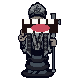
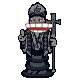
Polish gameplay for a 9-year-old: UX, difficulty, and stats
- Board flips when player chooses Black so own pieces are always at the bottom
- Capture targets show a ring around enemy pieces (was invisible green dot under piece)
- Rank/file labels enlarged for easier reading
- Stats panel moved to top-right, split into two compact lines per side so long
  capture lists don't overflow at any window size
- Chomp animation extended (38→55 frames) so the teeth sprite is visible after
  the slide animation lands (~0.7 s shown)
- Easy difficulty reduced to depth=1 (matches Lichess Level 1 — actually beatable)
- Medium difficulty reduced to depth=4 (was 10; gradual step up from Easy)
- Chomp sprites updated with real cartoon teeth overlaid from teeth.jpg
- README updated with personal note about who the game is for

Changed region(s): [[0.275, 0.225, 0.725, 0.425]]

diff --git a/game/board.py b/game/board.py
@@ -8,23 +8,31 @@ FILES = "abcdefgh"
 
 
 def draw(surface: pygame.Surface, state: GameState, theme: Theme,
-         ox: int, oy: int, fonts: dict, sq: int = 80):
-    _squares(surface, state, theme, ox, oy, sq)
-    _labels(surface, theme, ox, oy, fonts["sm"], sq)
-    _pieces(surface, state, theme, ox, oy, sq)
-    _anim_piece(surface, state, theme, ox, oy, sq)
+         ox: int, oy: int, fonts: dict, sq: int = 80, flip: bool = False):
+    _squares(surface, state, theme, ox, oy, sq, flip)
+    _labels(surface, theme, ox, oy, fonts["md"], sq, flip)
+    _pieces(surface, state, theme, ox, oy, sq, flip)
+    _anim_piece(surface, state, theme, ox, oy, sq, flip)
     _chomp_text(surface, state, theme, ox, oy, fonts["chomp"], sq)
     _status_bar(surface, state, theme, ox, oy, fonts, sq)
     _controls_bar(surface, state, theme, ox, oy, fonts["sm"], sq)
+    _stats_bar(surface, state, theme, fonts)
     if state.game_over:
         _game_over_banner(surface, state, theme, ox, oy, fonts, sq)
 
 
-def _squares(surface, state, theme, ox, oy, sq):
+def _sq_topleft(file, rank, ox, oy, sq, flip):
+    """Pixel top-left of the square at (file, rank)."""
+    if flip:
+        return ox + (7 - file) * sq, oy + rank * sq
+    return ox + file * sq, oy + (7 - rank) * sq
+
+
+def _squares(surface, state, theme, ox, oy, sq, flip=False):
     for rank in range(8):
         for file in range(8):
             square = chess.square(file, rank)
-            x, y = ox + file * sq, oy + (7 - rank) * sq
+            x, y = _sq_topleft(file, rank, ox, oy, sq, flip)
 
             is_light = (file + rank) % 2 == 1
             color = theme.light_sq if is_light else theme.dark_sq
@@ -37,24 +45,33 @@ def _squares(surface, state, theme, ox, oy, sq):
             pygame.draw.rect(surface, color, (x, y, sq, sq))
 
             if square in state.legal_targets:
-                dot_r = max(3, sq // 9)
-                pygame.draw.circle(surface, theme.move_dot,
-                                   (x + sq // 2, y + sq // 2), dot_r)
+                cx, cy = x + sq // 2, y + sq // 2
+                enemy = state.board.piece_at(square)
+                if enemy is not None:
+                    # Ring around capturable enemy piece
+                    ring_r = max(6, sq * 2 // 5)
+                    ring_w = max(2, sq // 16)
+                    pygame.draw.circle(surface, theme.check_sq, (cx, cy), ring_r, ring_w)
+                else:
+                    dot_r = max(3, sq // 9)
+                    pygame.draw.circle(surface, theme.move_dot, (cx, cy), dot_r)
 
     pygame.draw.rect(surface, theme.dark_sq, (ox, oy, sq * 8, sq * 8), 3)
 
 
-def _labels(surface, theme, ox, oy, font, sq):
+def _labels(surface, theme, ox, oy, font, sq, flip=False):
     for i in range(8):
-        rank_lbl = font.render(str(8 - i), True, theme.label_color)
+        rank_num = i + 1 if flip else 8 - i
+        rank_lbl = font.render(str(rank_num), True, theme.label_color)
         surface.blit(rank_lbl, (ox + sq * 8 + 5,
                                 oy + i * sq + sq // 2 - rank_lbl.get_height() // 2))
-        file_lbl = font.render(FILES[i], True, theme.label_color)
+        file_idx = 7 - i if flip else i
+        file_lbl = font.render(FILES[file_idx], True, theme.label_color)
         surface.blit(file_lbl, (ox + i * sq + sq // 2 - file_lbl.get_width() // 2,
                                 oy + sq * 8 + 4))
 
 
-def _pieces(surface, state, theme, ox, oy, sq):
+def _pieces(surface, state, theme, ox, oy, sq, flip=False):
     for square in chess.SQUARES:
         if state.animating() and square == state.anim_to_sq:
             continue
@@ -62,26 +79,27 @@ def _pieces(surface, state, theme, ox, oy, sq):
         if piece is None:
             continue
         file, rank = chess.square_file(square), chess.square_rank(square)
-        cx = ox + file * sq + sq // 2
-        cy = oy + (7 - rank) * sq + sq // 2
+        x, y = _sq_topleft(file, rank, ox, oy, sq, flip)
+        cx, cy = x + sq // 2, y + sq // 2
         fill    = theme.white_piece   if piece.color == chess.WHITE else theme.black_piece
         outline = theme.white_outline if piece.color == chess.WHITE else theme.black_outline
         timer = state.chomp_timer if square == state.chomping_square else 0
         p.draw_piece(surface, piece, cx, cy, sq, fill, outline, timer)
 
 
-def _sq_center(square, ox, oy, sq):
-    return (ox + chess.square_file(square) * sq + sq // 2,
-            oy + (7 - chess.square_rank(square)) * sq + sq // 2)
+def _sq_center(square, ox, oy, sq, flip=False):
+    file, rank = chess.square_file(square), chess.square_rank(square)
+    x, y = _sq_topleft(file, rank, ox, oy, sq, flip)
+    return x + sq // 2, y + sq // 2
 
 
-def _anim_piece(surface, state, theme, ox, oy, sq):
+def _anim_piece(surface, state, theme, ox, oy, sq, flip=False):
     if not state.animating() or state.anim_piece is None:
         return
     raw = 1.0 - state.anim_timer / ANIM_DURATION
     t = raw * raw * (3 - 2 * raw)
-    fx, fy = _sq_center(state.anim_from_sq, ox, oy, sq)
-    tx, ty = _sq_center(state.anim_to_sq,   ox, oy, sq)
+    fx, fy = _sq_center(state.anim_from_sq, ox, oy, sq, flip)
+    tx, ty = _sq_center(state.anim_to_sq,   ox, oy, sq, flip)
     cx = int(fx + t * (tx - fx))
     cy = int(fy + t * (ty - fy))
     piece   = state.anim_piece
@@ -112,8 +130,48 @@ def _status_bar(surface, state, theme, ox, oy, fonts, sq):
 
 def _controls_bar(surface, state, theme, ox, oy, font, sq):
     txt = font.render("R — restart    ESC — menu", True, theme.label_color)
-    # sit below file labels (which are at sq*8+4, one line tall)
     surface.blit(txt, (ox, oy + sq * 8 + font.get_height() + 8))
+
+
+def _stats_bar(surface, state, theme, fonts):
+    """Render game stats top-right — always visible regardless of window size."""
+    font = fonts["sm"]
+    H = font.get_height()
+    W, _ = surface.get_size()
+    # sit just below the mode label which main.py draws at y=10
+    base_y = 10 + H + 8
+
+    white_left = sum(1 for s in chess.SQUARES
+                     if (pc := state.board.piece_at(s)) and pc.color == chess.WHITE)
+    black_left = sum(1 for s in chess.SQUARES
+                     if (pc := state.board.piece_at(s)) and pc.color == chess.BLACK)
+
+    def fmt_caps(caps):
+        if not caps:
+            return "—"
+        cnt: dict[int, int] = {}
+        for pc in caps:
+            cnt[pc.piece_type] = cnt.get(pc.piece_type, 0) + 1
+        syms = {chess.QUEEN: 'Q', chess.ROOK: 'R', chess.BISHOP: 'B',
+                chess.KNIGHT: 'N', chess.PAWN: 'P'}
+        order = [chess.QUEEN, chess.ROOK, chess.BISHOP, chess.KNIGHT, chess.PAWN]
+        parts = [f"{cnt[pt]}{syms[pt]}" if cnt[pt] > 1 else syms[pt]
+                 for pt in order if pt in cnt]
+        return ' '.join(parts)
+
+    rows = [
+        ("White", white_left, state.white_captures, state.white_checks),
+        ("Black", black_left, state.black_captures, state.black_checks),
+    ]
+    y = base_y
+    for side, left, caps, checks in rows:
+        line1 = f"{side}: {left} pcs  checks: {checks}"
+        line2 = f"  took: {fmt_caps(caps)}"
+        for line in (line1, line2):
+            txt = font.render(line, True, theme.text_color)
+            surface.blit(txt, (W - txt.get_width() - 10, y))
+            y += H + 2
+        y += 3
 
 
 def _game_over_banner(surface, state, theme, ox, oy, fonts, sq):

diff --git a/game/sprites.py b/game/sprites.py
@@ -1,10 +1,10 @@
 """
-Pixel-art chess piece sprites at 32×32.
+Pixel-art chess piece sprites drawn in 32×32 logical space, stored as 128×128 PNGs.
 
 Normal state: proper chess piece silhouettes, no face.
 Chomp state:  same silhouette but with a gaping toothed mouth (the "chessteeth" moment).
 
-PNGs are written to chessteeth/assets/ on first run.
+PNGs are written to game/assets/ on first run (filename includes canvas size).
 Edit them in any image editor — the game loads from disk.
 """
 from __future__ import annotations
@@ -13,8 +13,9 @@ import chess
 import pygame
 from PIL import Image, ImageDraw
 
-_SZ      = 32
-_DISPLAY = 80
+_SCALE   = 2          # internal drawing space is 32×32; multiply all coords by this
+_SZ      = 32 * _SCALE  # = 64 — canvas for PIL drawing
+_DISPLAY = 80         # PNG stored at this size; disk PNGs are already 80×80
 _ASSETS  = os.path.join(os.path.dirname(__file__), "assets")
 _cache: dict[str, pygame.Surface] = {}
 
@@ -30,19 +31,26 @@ def _dk(rgb, n=40):     return tuple(max(0,   v-n) for v in rgb) + (255,)
 def _lk(rgb, n=40):     return tuple(min(255, v+n) for v in rgb) + (255,)
 
 
-# ── drawing primitives (32×32 space) ─────────────────────────────────────────
+# ── drawing primitives (32×32 logical space — all coords scaled by _SCALE) ───
 
 def _r(d, x, y, w, h, col):
-    if w>0 and h>0: d.rectangle([(x,y),(x+w-1,y+h-1)], fill=col)
+    s = _SCALE
+    if w > 0 and h > 0:
+        d.rectangle([(x*s, y*s), (x*s + w*s - 1, y*s + h*s - 1)], fill=col)
 
 def _e(d, x0, y0, x1, y1, fill, outline=None):
-    d.ellipse([(x0,y0),(x1,y1)], fill=fill, outline=outline)
+    s = _SCALE
+    d.ellipse([(x0*s, y0*s), (x1*s, y1*s)], fill=fill, outline=outline)
 
 def _p(d, x, y, col):
-    if 0<=x<_SZ and 0<=y<_SZ: d.point((x,y), fill=col)
+    s = _SCALE
+    base = _SZ // s
+    if 0 <= x < base and 0 <= y < base:
+        d.rectangle([(x*s, y*s), (x*s+s-1, y*s+s-1)], fill=col)
 
 def _tri(d, pts, fill, outline=None):
-    d.polygon(pts, fill=fill, outline=outline)
+    s = _SCALE
+    d.polygon([(px*s, py*s) for px, py in pts], fill=fill, outline=outline)
 
 def _hline(d, x, y, w, col):
     _r(d, x, y, w, 1, col)

diff --git a/game/state.py b/game/state.py
@@ -3,7 +3,7 @@ from dataclasses import dataclass, field
 from typing import Optional
 
 
-CHOMP_DURATION = 38
+CHOMP_DURATION = 55
 ANIM_DURATION  = 12   # frames at 60 fps ≈ 200 ms
 
 
@@ -21,6 +21,11 @@ class GameState:
     anim_from_sq: Optional[chess.Square] = None
     anim_to_sq: Optional[chess.Square] = None
     anim_timer: int = 0
+    # metrics
+    white_captures: list[chess.Piece] = field(default_factory=list)
+    black_captures: list[chess.Piece] = field(default_factory=list)
+    white_checks: int = 0
+    black_checks: int = 0
 
     def select(self, square: chess.Square) -> bool:
         piece = self.board.piece_at(square)
@@ -52,12 +57,36 @@ class GameState:
             return False
         moving_piece = self.board.piece_at(move.from_square)
         is_capture   = self.board.is_capture(move)
+
+        # Record captured piece before the board state changes
+        captured = None
+        if is_capture:
+            if self.board.is_en_passant(move):
+                ep_sq = chess.square(chess.square_file(move.to_square),
+                                     chess.square_rank(move.from_square))
+                captured = self.board.piece_at(ep_sq)
+            else:
+                captured = self.board.piece_at(move.to_square)
+
         self.board.push(move)
         self.selected = None
         self.legal_targets = []
+
         if is_capture:
             self.chomping_square = move.to_square
             self.chomp_timer = CHOMP_DURATION
+            if captured and moving_piece:
+                if moving_piece.color == chess.WHITE:
+                    self.white_captures.append(captured)
+                else:
+                    self.black_captures.append(captured)
+
+        if self.board.is_check():
+            if self.board.turn == chess.BLACK:
+                self.white_checks += 1
+            else:
+                self.black_checks += 1
+
         if moving_piece:
             self.anim_piece   = moving_piece
             self.anim_from_sq = move.from_square

diff --git a/game/bot.py b/game/bot.py
@@ -5,12 +5,15 @@ import threading
 import chess
 import chess.engine
 
-# (num, label, skill_level 0-20, think_time seconds)
+# (num, label, uci_options, limit_kwargs)
+# Skill Level 0 = maximum blunder rate; depth cap forces very shallow search.
+# UCI_LimitStrength bottoms out at ~1350 ELO (still hard), so we use depth
+# limits instead for Easy/Medium to get a more gradual beginner curve.
 DIFFICULTIES = [
-    (1, "Easy",   0,  0.10),
-    (2, "Medium", 5,  0.50),
-    (3, "Hard",  12,  1.20),
-    (4, "Expert",20,  3.00),
+    (1, "Easy",   {"Skill Level": 0},  {"depth": 1,  "time": 0.05}),
+    (2, "Medium", {"Skill Level": 5},  {"depth": 4,  "time": 0.3}),
+    (3, "Hard",   {"Skill Level": 14}, {"time": 0.8}),
+    (4, "Expert", {"Skill Level": 20}, {"time": 3.0}),
 ]
 
 
@@ -39,8 +42,9 @@ class BotEngine:
             return False
         try:
             self._engine = chess.engine.SimpleEngine.popen_uci(path)
-            _, _, skill, _ = DIFFICULTIES[self.difficulty - 1]
-            self._engine.configure({"Skill Level": skill})
+            _, _, opts, _ = DIFFICULTIES[self.difficulty - 1]
+            if opts:
+                self._engine.configure(opts)
             return True
         except Exception:
             return False
@@ -49,12 +53,12 @@ class BotEngine:
         if self._thread and self._thread.is_alive():
             return
         board_copy = board.copy()
-        _, _, _, think = DIFFICULTIES[self.difficulty - 1]
+        _, _, _, limit_kwargs = DIFFICULTIES[self.difficulty - 1]
 
         def _run():
             try:
                 assert self._engine is not None
-                result = self._engine.play(board_copy, chess.engine.Limit(time=think))
+                result = self._engine.play(board_copy, chess.engine.Limit(**limit_kwargs))
                 with self._lock:
                     self._pending = result.move
             except Exception:

diff --git a/game/main.py b/game/main.py
@@ -31,10 +31,12 @@ def _make_fonts(sq):
     }
 
 
-def _sq_from_mouse(mx, my, bx, by, sq):
+def _sq_from_mouse(mx, my, bx, by, sq, flip=False):
     rx, ry = mx - bx, my - by
     if not (0 <= rx < sq * 8 and 0 <= ry < sq * 8):
         return None
+    if flip:
+        return chess.square(7 - (rx // sq), ry // sq)
     return chess.square(rx // sq, 7 - (ry // sq))
 
 
@@ -210,6 +212,10 @@ def main():
         # ── game ──────────────────────────────────────────────────────────────
         assert state is not None
 
+        # flip=True when the player chose Black (bot plays White, so player's
+        # pieces are on ranks 7-8 — display those at the bottom)
+        flip = bot is not None and bot_color == chess.WHITE
+
         for event in pygame.event.get():
             if event.type == pygame.QUIT:
                 if bot: bot.close()
@@ -222,7 +228,7 @@ def main():
             elif event.type == pygame.MOUSEBUTTONDOWN and event.button == 1:
                 if state.game_over or state.animating(): continue
                 if bot and state.board.turn == bot_color: continue
-                clicked = _sq_from_mouse(*event.pos, bx, by, sq)
+                clicked = _sq_from_mouse(*event.pos, bx, by, sq, flip)
                 if clicked is None: continue
                 if state.selected is not None:
                     if state.try_move(clicked):
@@ -252,7 +258,7 @@ def main():
             th = fonts["sm"].render("Bot is thinking…", True, theme.check_sq)
             screen.blit(th, (bx, by - th.get_height() - 6))
 
-        board_mod.draw(screen, state, theme, bx, by, fonts, sq)
+        board_mod.draw(screen, state, theme, bx, by, fonts, sq, flip)
 
         pygame.display.flip()
         clock.tick(FPS)

diff --git a/README.md b/README.md
@@ -1,6 +1,6 @@
 # ChessTeeth
 
-A desktop chess game built for a 9-year-old who just got into chess and had one specific request: the pieces should **bare their teeth** when they capture.
+A desktop chess game I made for my 9-year-old daughter who just got into chess and had one specific request: the pieces should **bare their teeth** when they capture.
 
 Two goals, one project — she gets a game made just for her, and a codebase to start learning Python with.
 
@@ -63,7 +63,7 @@ chessteeth/
 │   ├── sprites.py   # sprite loading and caching
 │   ├── themes.py    # color theme
 │   ├── bot.py       # Stockfish wrapper (background thread)
-│   └── assets/      # generated 80×80 PNGs (auto-created)
+│   └── assets/      # generated 128×128 PNGs (auto-created)
 ├── pyproject.toml
 └── uv.lock
 ```
